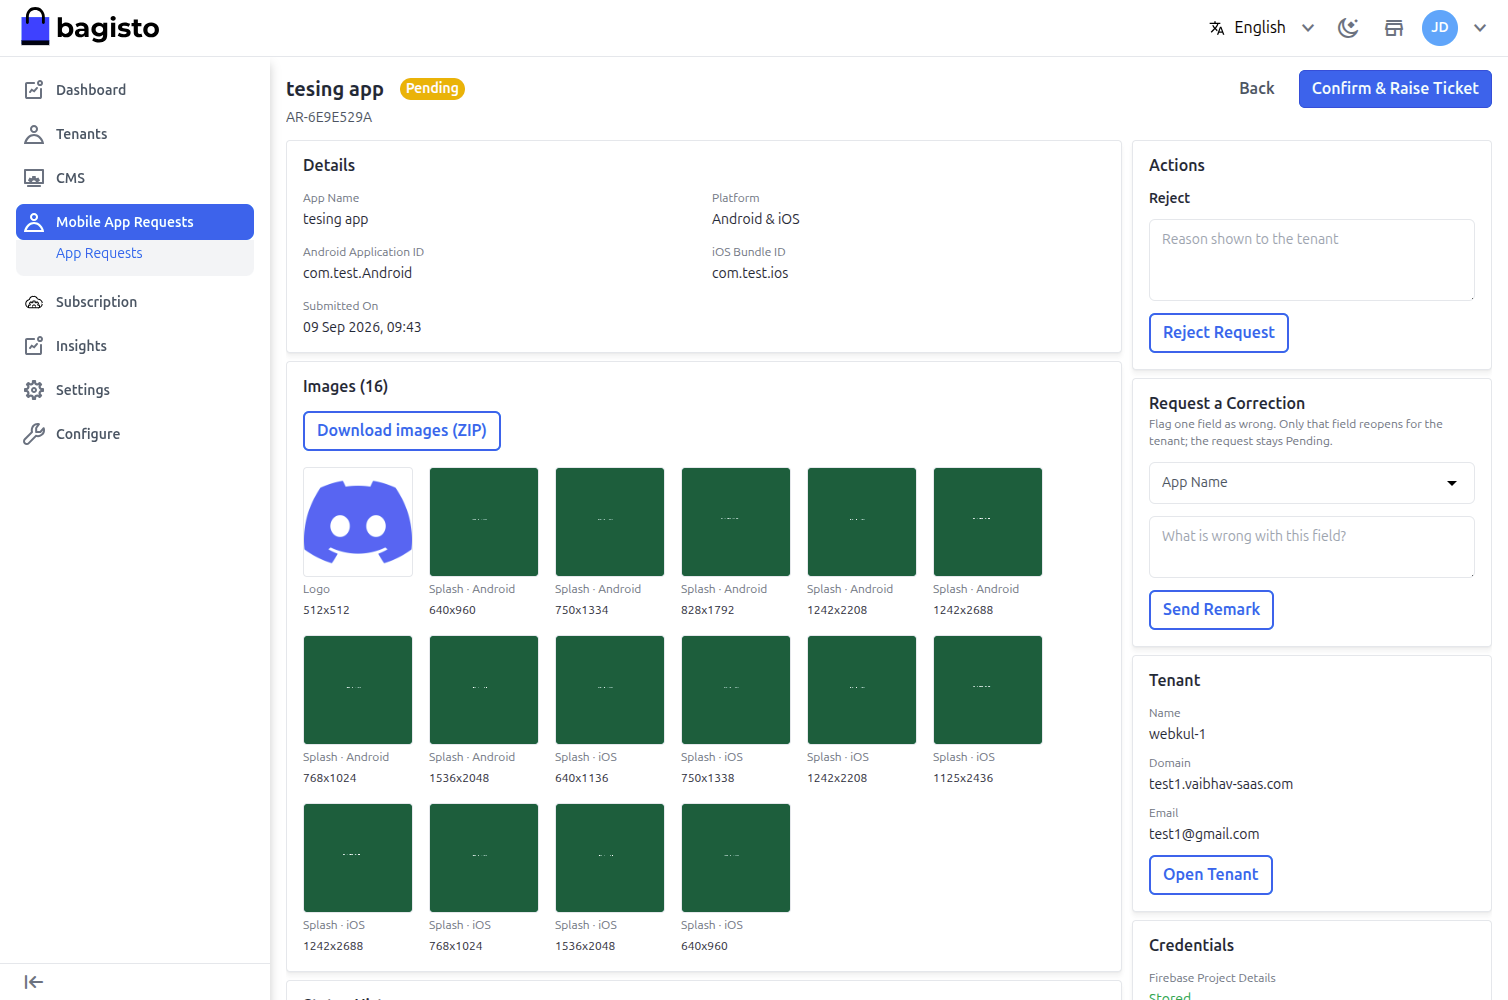
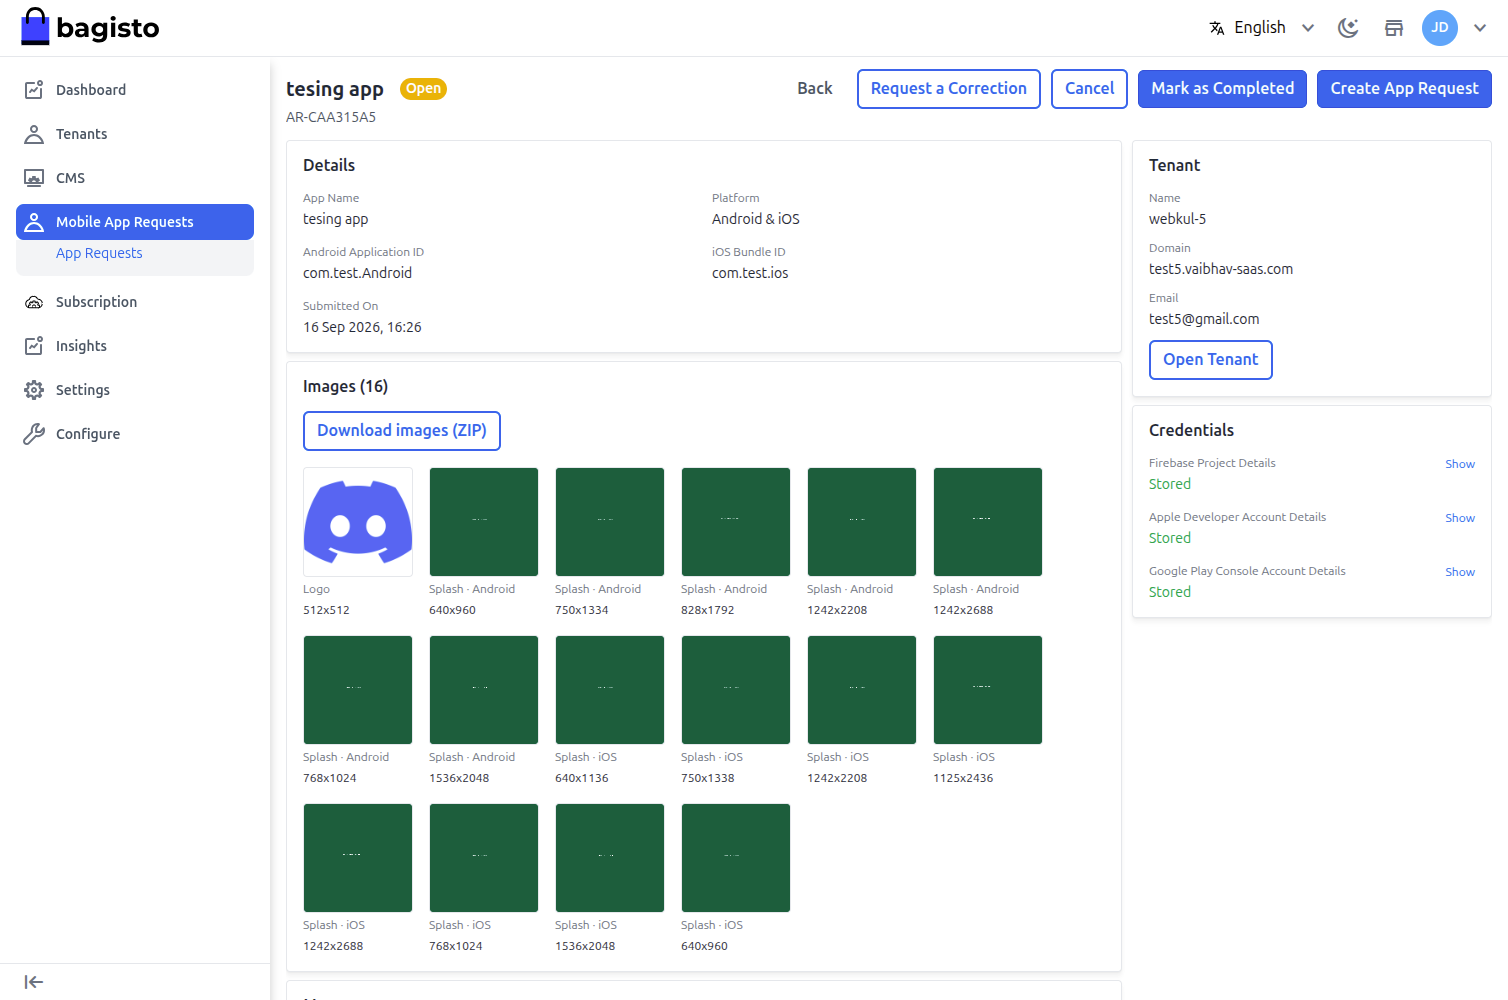
Update the App request docs

diff --git a/src/mobile-app/managing-app-requests.md b/src/mobile-app/managing-app-requests.md
@@ -1,11 +1,12 @@
 # Managing App Requests
 
-Every tenant's app request arrives in one place for the super admin to review, send to the mobile team, and close out with a download link. This page covers that side of the workflow.
+Every tenant's app request arrives in one place for the super admin to review, pass to the mobile team, and close out with a download link. This page covers that side of the workflow.
 
 ::: info What you'll learn
 - How to review a tenant's app request
-- How to raise a build ticket with the mobile team
-- How to deliver the finished app, request a correction, or reject
+- How to read the credentials a tenant supplied
+- How to talk to the tenant about a request
+- How to deliver the finished app, request a correction, or cancel
 :::
 
 ## Viewing requests
@@ -18,7 +19,13 @@ Click the **View** (eye) icon on a row to open the full request.
 
 <ImagePopup src="/images/managing-app-requests/super-request-detail.png" alt="App request detail" />
 
-The detail screen shows the app name, platform, application IDs, every generated image, and the credential groups the tenant supplied. Credentials are stored encrypted and shown as **Stored** rather than in plain text.
+The detail screen shows the app name, platform, application IDs, every generated image, and the credential groups the tenant supplied.
+
+## Reading the credentials
+
+Credentials are stored encrypted and listed as **Stored**. The mobile team needs them to build the app, so the super admin can read them — but only on request: each group has a **Show** link that reveals the account type, the invitation note and the full details, and a **Hide** link that puts them away again.
+
+Nothing is revealed by default, so opening a request during a screen share does not put an Apple password on the screen.
 
 ## Downloading the images
 
@@ -30,18 +37,14 @@ Select **Download images (ZIP)** to get everything in one archive, foldered by p
 
 Each platform folder carries its own copy of the logo, so a build team working on one platform has everything in one place.
 
-## Step 1 — Raise the build ticket
+## Step 1 — Send the request to the mobile team
 
-With the request open, select **Raise Ticket**. Add an optional priority and comment, then confirm.
+With the request open, select **Create App Request**. The mobile team's own request form opens in a new tab, where the build is booked in.
 
-<ImagePopup src="/images/managing-app-requests/super-raise-ticket.png" alt="Raise ticket panel" />
-
-Confirming creates a ticket in the helpdesk and posts the full build brief to it, with the image archive attached. The panel returns immediately — the ticket is raised in the background, so refresh after a moment to see the number.
-
-The request moves to **Processing**, and a Helpdesk Ticket card appears on it with a link straight to the ticket and its replies.
+Everything the team needs is on the request screen itself: **Download images (ZIP)** gives them the artwork, and the credential groups can be revealed as described above.
 
 ::: warning
-The build details — application IDs, and the Apple, Google Play and Firebase credentials — are posted as an **internal note**. Agents can read it on the ticket, but it is never included in the confirmation e-mail sent to the ticket's contact address.
+Credentials are never e-mailed and never leave the panel on their own. Copy them from the request when the team asks, and only then.
 :::
 
 ## Step 2 — Deliver the app
@@ -56,40 +59,36 @@ Saving records the links, moves the request to **Completed**, and e-mails the te
 
 ## Requesting a correction
 
-If something the tenant submitted is wrong — a logo that reads badly on white, the wrong bundle ID — you do not have to reject the whole request.
+If something the tenant submitted is wrong — a logo that reads badly on white, the wrong bundle ID — you do not have to cancel the whole request.
 
-Use **Request Correction** on the field in question and give a reason. The request **stays Pending** and only that one field reopens for the tenant to edit; everything else remains locked. The tenant is e-mailed with your reason.
+<ImagePopup src="/images/managing-app-requests/super-details-correction.png"alt="Request correction on a field"/>
 
-<ImagePopup src="/images/managing-app-requests/super-request-correction.png" alt="Request correction on a field" />
+Use **Request a Correction** on the field in question and give a reason. The request **stays Open** and only that one field reopens for the tenant to edit; everything else remains locked. The tenant is e-mailed with your reason.
 
-## Rejecting a request
+## Canceling a request
 
-If the request cannot go ahead at all, use **Reject** and give a reason. The tenant is e-mailed, and the reason is shown on their copy of the request.
+If the request cannot go ahead at all, use **Cancel** and give a reason. The tenant is e-mailed, and the reason is shown on their copy of the request.
 
-Rejecting also frees the platform, so the tenant can raise a fresh request for it.
+Canceling also frees the platform, so the tenant can raise a fresh request for it. **Create App Request** disappears from a canceled request — there is no build left to ask for.
 
-## Configuration
+<ImagePopup src="/images/managing-app-requests/super-request-cancle.png"alt="Cancle the Request"/>
 
-Helpdesk settings live under **Configure → Mobile App Req → UVdesk**.
+## Talking to the tenant
 
-<ImagePopup src="/images/managing-app-requests/super-configuration.png" alt="Mobile App Request configuration" />
+Every request carries a **Messages** thread, shared by the super admin and the tenant. Use it for anything that is not a field correction — a question about an account, a screenshot from the store review, a note about timing.
 
-- **Enable** — turns ticket raising on. With it off, **Raise Ticket** reports that the helpdesk is disabled.
-- **Helpdesk URL** — the instance root only, for example `https://help.uvdesk.com`.
-- **Access Token** — generated from **UVdesk → Dashboard → Profile → Access Tokens**.
-- **Ticket Type** — the numeric ticket type id to file under.
-- **From Name** / **From Email** — who the ticket appears to come from.
+- Both sides see every message, with who wrote it and when.
+- Files can be attached: up to 5 per message, 10 MB each (PNG, JPG, PDF, ZIP, TXT, JSON, CSV, DOC, DOCX, XLS, XLSX).
+- The other side is e-mailed that a message is waiting. Attachments stay in the panel and are never e-mailed.
+- The thread closes for new messages once the request is completed or canceled, and stays readable.
 
-::: tip Set a From Email
-Leave **From Email** blank and tickets are raised from whichever super admin pressed the button, so helpdesk replies land in that person's personal inbox. Set it to a shared platform address instead — the ticket sender stays consistent no matter who raises it.
-:::
+<ImagePopup src="/images/requesting-an-app/message-req.png" alt="Message" />
 
 ## Statuses
 
-- **Pending** — the tenant has submitted. The form is locked, and you can request a correction on individual fields.
-- **Processing** — the helpdesk ticket has been raised.
+- **Open** — the tenant has submitted. The form is locked, you can request a correction on individual fields, and the Messages thread is live.
 - **Completed** — the download links are recorded and the tenant has been e-mailed.
-- **Rejected** — you declined it, with a reason the tenant can read.
+- **Canceled** — you stopped it, with a reason the tenant can read.
 
 ::: tip
 Every request is scoped to the tenant that raised it. Tenants see only their own requests; the super admin sees them all in one list.

diff --git a/src/mobile-app/requesting-an-app.md b/src/mobile-app/requesting-an-app.md
@@ -8,6 +8,7 @@ Tenants can ask the platform to build a mobile app for their store. The tenant s
 - What to prepare before starting a request
 - How a tenant submits an app request
 - What happens after the request is submitted
+- How to talk to the platform about a request
 :::
 
 ## Before you begin
@@ -24,7 +25,7 @@ Have these ready. The form cannot be saved as a draft — once submitted it lock
 - **Firebase project** — the project details.
 
 ::: warning One open request per platform
-A tenant cannot raise a second request covering a platform that already has one open. Wait for the first to be completed or rejected.
+A tenant cannot raise a second request covering a platform that already has one open. Wait for the first to be completed or canceled.
 :::
 
 ## Step 1 — Open My Apps
@@ -75,11 +76,13 @@ Uploaded images are the one thing that cannot be restored — no browser allows 
 
 ## Step 3 — The request is submitted
 
-You return to **My Apps** and the request appears as **Pending**. Opening it shows everything that was submitted, including the generated images. Credentials are shown only as **Stored** — for security they cannot be read back, though they can be replaced.
+You return to **My Apps** and the request appears as **Open**. Opening it shows everything that was submitted, including the generated images. Credentials are shown only as **Stored** — the tenant cannot read them back, though they can be replaced.
 
-<ImagePopup src="/images/requesting-an-app/tenant-request-pending.png" alt="Submitted request detail" />
+<ImagePopup src="/images/requesting-an-app/tenant-req-show.png" alt="Submitted request detail" />
 
 At this point the form is locked. Nothing more is needed from the tenant unless a correction is requested.
+
+An open request can still be withdrawn: the **Delete** action stays on the row in **My Apps** while the request is open, and disappears once it is completed or canceled.
 
 ## Step 4 — Get the app
 
@@ -87,20 +90,30 @@ When the build is ready the tenant is e-mailed, and the download links appear on
 
 A request for one platform gets one link. A request covering **both** gets two — an `.apk` or `.aab` for Android and an App Store link for iOS — each labelled with its platform.
 
-<ImagePopup src="/images/requesting-an-app/tenant-download.png" alt="Download links on the completed request" />
+<ImagePopup src="/images/requesting-an-app/download-app.png" alt="Download links on the completed request" />
 
 The tenant shares the links with their customers, and uploads the same build to their own Play Console or App Store Connect account.
 
 ## If a correction is requested
 
-While a request is **Pending**, the super admin can ask for a correction on a single field. The request stays Pending and **only that field reopens** for editing — everything else remains locked. The tenant is e-mailed with the reason, updates that one field, and saves.
+While a request is **Open**, the super admin can ask for a correction on a single field. The request stays Open and **only that field reopens** for editing — everything else remains locked. The tenant is e-mailed with the reason, updates that one field, and saves.
+
+## Messaging the platform
+
+Every request carries a **Messages** thread the tenant shares with the platform team. Use it for anything that is not a field correction — a question about an account, a screenshot, a note about timing.
+
+- Both sides see every message, with who wrote it and when.
+- Files can be attached: up to 5 per message, 10 MB each (PNG, JPG, PDF, ZIP, TXT, JSON, CSV, DOC, DOCX, XLS, XLSX).
+- The platform is e-mailed that a message is waiting, and the tenant is e-mailed when it replies. Attachments stay in the panel and are never e-mailed.
+- The thread closes for new messages once the request is completed or canceled, and stays readable.
+
+<ImagePopup src="/images/requesting-an-app/message-req.png" alt="Message" />
 
 ## Statuses
 
-- **Pending** — the request has been submitted and the form is locked.
-- **Processing** — the platform team has started the build.
+- **Open** — the request has been submitted and the form is locked. It can still be withdrawn, corrections can be requested on it, and the Messages thread is live.
 - **Completed** — the download links are recorded and the tenant has been e-mailed.
-- **Rejected** — the request was declined, with a reason the tenant can read.
+- **Canceled** — the platform stopped the request, with a reason the tenant can read.
 
 ::: tip
 The super admin never sees a tenant's request until it is submitted, and a tenant never sees another tenant's requests. Every request is scoped to the store that raised it.
